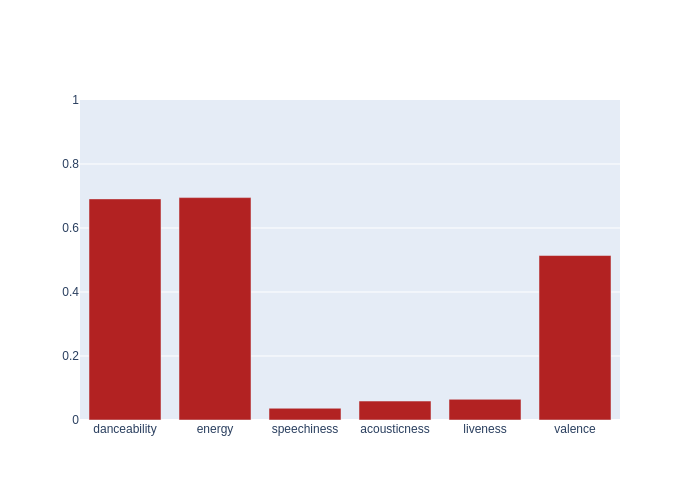
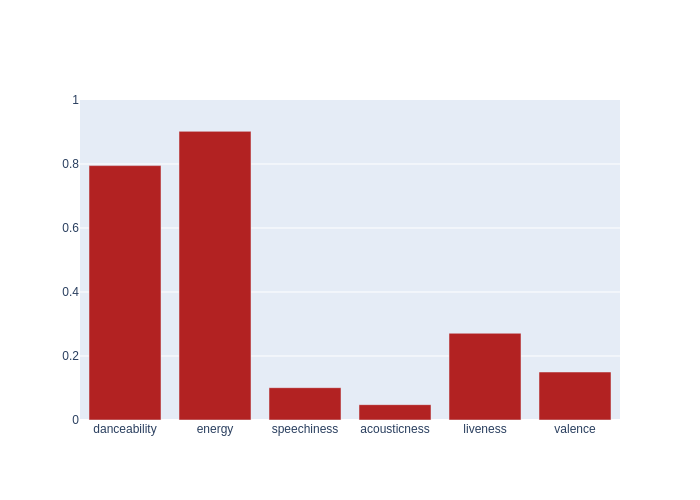
Automated README update

Changed region(s): [[0.36, 0.51, 0.87, 0.84], [0.12, 0.24, 0.36, 0.42]]

diff --git a/README.md b/README.md
@@ -4,9 +4,9 @@ Automated music metrics for fun, updated hourly.
 
 ## Spotify
 
-- currently listening to **Regard - You**
+- currently listening to **Just A Gent - SUB ZERO**
 
-- **845** liked songs
+- **848** liked songs
 - **132** playlists
 
 - top artists: 
